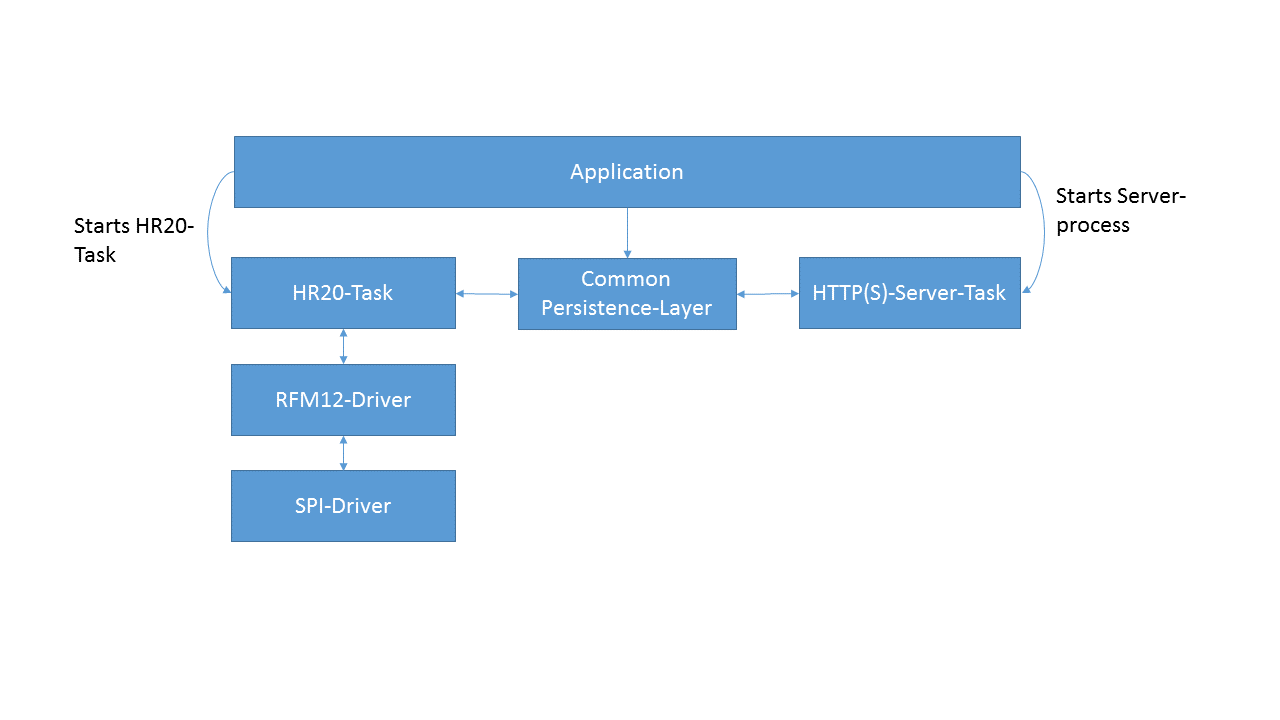
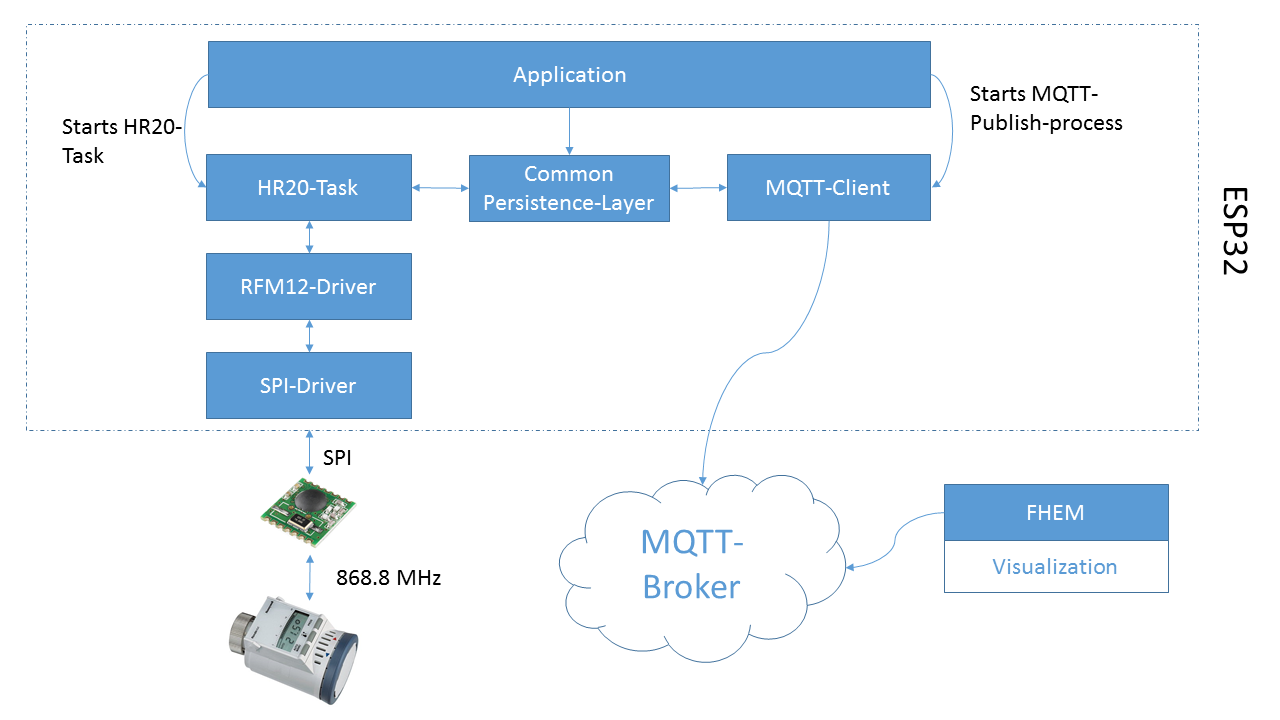
Changed system architecture, information should be published to a MQTT-broker

diff --git a/README.md b/README.md
@@ -4,7 +4,7 @@ This project follows the goal of controlling Honeywell-Thermostats with OpenHR20
 Important: This project is a work in progress! Currently, the transmitting and receiving of the RFM12B-Module won't work as expected.
 
 
-## Architecture  
+## System Architecture  
 ![alt Architecture](Architecture.png)
 
 
@@ -14,4 +14,4 @@ Currently, the modules have the following state:
  * RFM12-driver: Completed, but still has several bugs
  * HR20-task: To be completed! 
  * Persistance-Layer: To be completed! 
- * HTTP(S)-Server-Task: To be completed! 
+ * MQTT-Client: To be completed! 
